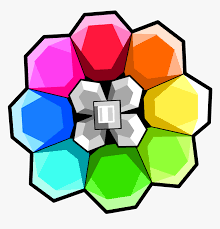
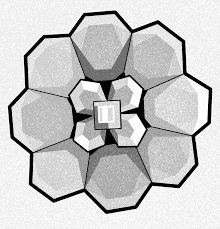
badges fixed

diff --git a/src/components/Badges.jsx b/src/components/Badges.jsx
@@ -1,5 +1,5 @@
 import React from "react";
-import Loser from "../assets/loser.jpeg";
+import "./badges.css";
 import Badge1 from "../assets/1.png";
 import Badge2 from "../assets/2.png";
 import Badge3 from "../assets/3.png";
@@ -8,19 +8,34 @@ import Badge5 from "../assets/5.png";
 import Badge6 from "../assets/6.png";
 import Badge7 from "../assets/7.png";
 import Badge8 from "../assets/8.png";
+import Badge1B from "../assets/1black.png";
+import Badge2B from "../assets/2back.png";
+import Badge3B from "../assets/3back.png";
+import Badge4B from "../assets/4back.png";
+import Badge5B from "../assets/5back.png";
+import Badge6B from "../assets/6back.png";
+import Badge7B from "../assets/7back.png";
+import Badge8B from "../assets/8back.png";
 
+const score = 1400;
 const badges = [
-  Loser,
   Badge1,
+  Badge1B,
   Badge2,
+  Badge2B,
   Badge3,
+  Badge3B,
   Badge4,
+  Badge4B,
   Badge5,
   Badge6,
+  Badge6B,
   Badge7,
+  Badge7B,
   Badge8,
+  Badge8B,
 ];
-const scores = [200, 400, 600, 800, 1000, 1200, 1400, 1600];
+
 const paliers = [
   "Palier 0",
   "Palier 1",
@@ -45,23 +60,81 @@ function updatePaliers(palier) {
   if (palier > 1600) return paliers[8];
 }
 
-function updateBadges(score) {
-  if (score < 200) return badges.Loser;
-  if (score < 400) return badges.Badge1;
-  if (score < 600) return badges.Badge2;
-  if (score < 800) return badges.Badge3;
-  if (score < 1000) return badges.Badge4;
-  if (score < 1200) return badges.Badge5;
-  if (score < 1400) return badges.Badge6;
-  if (score < 1600) return badges.Badge7;
-  if (score > 1600) return badges.Badge8;
+function updateBadges(score, index) {
+  if (index === 0) {
+    return score > 200 ? (
+      <img src={Badge1} alt="badge1" />
+    ) : (
+      <img src={Badge1B} alt="badge1-grisé" />
+    );
+  }
+  if (index === 1) {
+    return score > 400 ? (
+      <img src={Badge2} alt="badge2" />
+    ) : (
+      <img src={Badge2B} alt="badge2-grisé" />
+    );
+  }
+  if (index === 2) {
+    return score > 600 ? (
+      <img src={Badge3} alt="badge3" />
+    ) : (
+      <img src={Badge3B} alt="badge3-grisé" />
+    );
+  }
+  if (index === 3) {
+    return score > 800 ? (
+      <img src={Badge4} alt="badge4" />
+    ) : (
+      <img src={Badge4B} alt="badge4-grisé" />
+    );
+  }
+  if (index === 4) {
+    return score > 1000 ? (
+      <img src={Badge5} alt="badge5" />
+    ) : (
+      <img src={Badge5B} alt="badge5-grisé" />
+    );
+  }
+  if (index === 5) {
+    return score > 1200 ? (
+      <img src={Badge6} alt="badge6" />
+    ) : (
+      <img src={Badge6B} alt="badge6-grisé" />
+    );
+  }
+  if (index === 6) {
+    return score > 1400 ? (
+      <img src={Badge7} alt="badge7" />
+    ) : (
+      <img src={Badge7B} alt="badge7-grisé" />
+    );
+  }
+  if (index === 7) {
+    return score > 1600 ? (
+      <img src={Badge8} alt="badge8" />
+    ) : (
+      <img src={Badge8B} alt="badge8-grisé" />
+    );
+  }
 }
+console.log(badges);
 
 export default function Badges() {
   return (
     <div className="dashboard">
-      <h1>Tableau de bord</h1>
-      <div className="paliers"></div>
+      <h1 className="title">Tableau de bord</h1>
+      <div className="paliers">
+        <div>{updatePaliers(score)}</div>
+        <div>{updatePaliers(score)}</div>
+      </div>
+      <div className="allBadges">
+        <ul className="baba">
+          {badges.map((badge, index) => (
+            <li key={index}>{updateBadges(score, index)}</li>
+          ))}
+        </ul>
+      </div>
     </div>
   );
 }

diff --git a/public/index.html b/public/index.html
@@ -9,7 +9,7 @@
       name="description"
       content="Web site created using create-react-app"
     />
-    <link rel="apple-touch-icon" href="%PUBLIC_URL%/logo192.png" />
+
     <!--
       manifest.json provides metadata used when your web app is installed on a
       user's mobile device or desktop. See https://developers.google.com/web/fundamentals/web-app-manifest/
@@ -24,7 +24,7 @@
       work correctly both with client-side routing and a non-root public URL.
       Learn how to configure a non-root public URL by running `npm run build`.
     -->
-    <title>React App</title>
+    <title>Walk'in Green</title>
   </head>
   <body>
     <noscript>You need to enable JavaScript to run this app.</noscript>

diff --git a/src/components/badges.css b/src/components/badges.css
@@ -1,0 +1,39 @@
+.title {
+  display: flex;
+  justify-content: center;
+  align-items: center;
+  margin-top: 60px;
+  font-size: 3em;
+  text-align: center;
+  font-weight: 400;
+  font-family: "Poppins", sans-serif;
+}
+
+.paliers {
+  height: 50px;
+  display: flex;
+  justify-content: space-between;
+  align-items: center;
+  padding-left: 20px;
+  padding-right: 20px;
+}
+
+.allBadges {
+  margin-top: 100px;
+  display: flex;
+  justify-content: center;
+}
+.baba {
+  display: grid;
+  grid-template-columns: repeat(4, 1fr);
+  grid-gap: 15px;
+}
+
+.icon-item {
+  width: 70px;
+  height: 70px;
+}
+img {
+  width: 70px;
+  height: 70px;
+}

diff --git a/src/screen/TableauBord.jsx b/src/screen/TableauBord.jsx
@@ -1,8 +1,15 @@
-import React from 'react';
-import './tableauBord.css';
+import React from "react";
+import Badges from "../components/Badges";
+import "./tableauBord.css";
 
 function TableauBord() {
-  return <div>TableauBord</div>;
+  return (
+    <div>
+      <div className="badge">
+        <Badges />
+      </div>
+    </div>
+  );
 }
 
 export default TableauBord;
